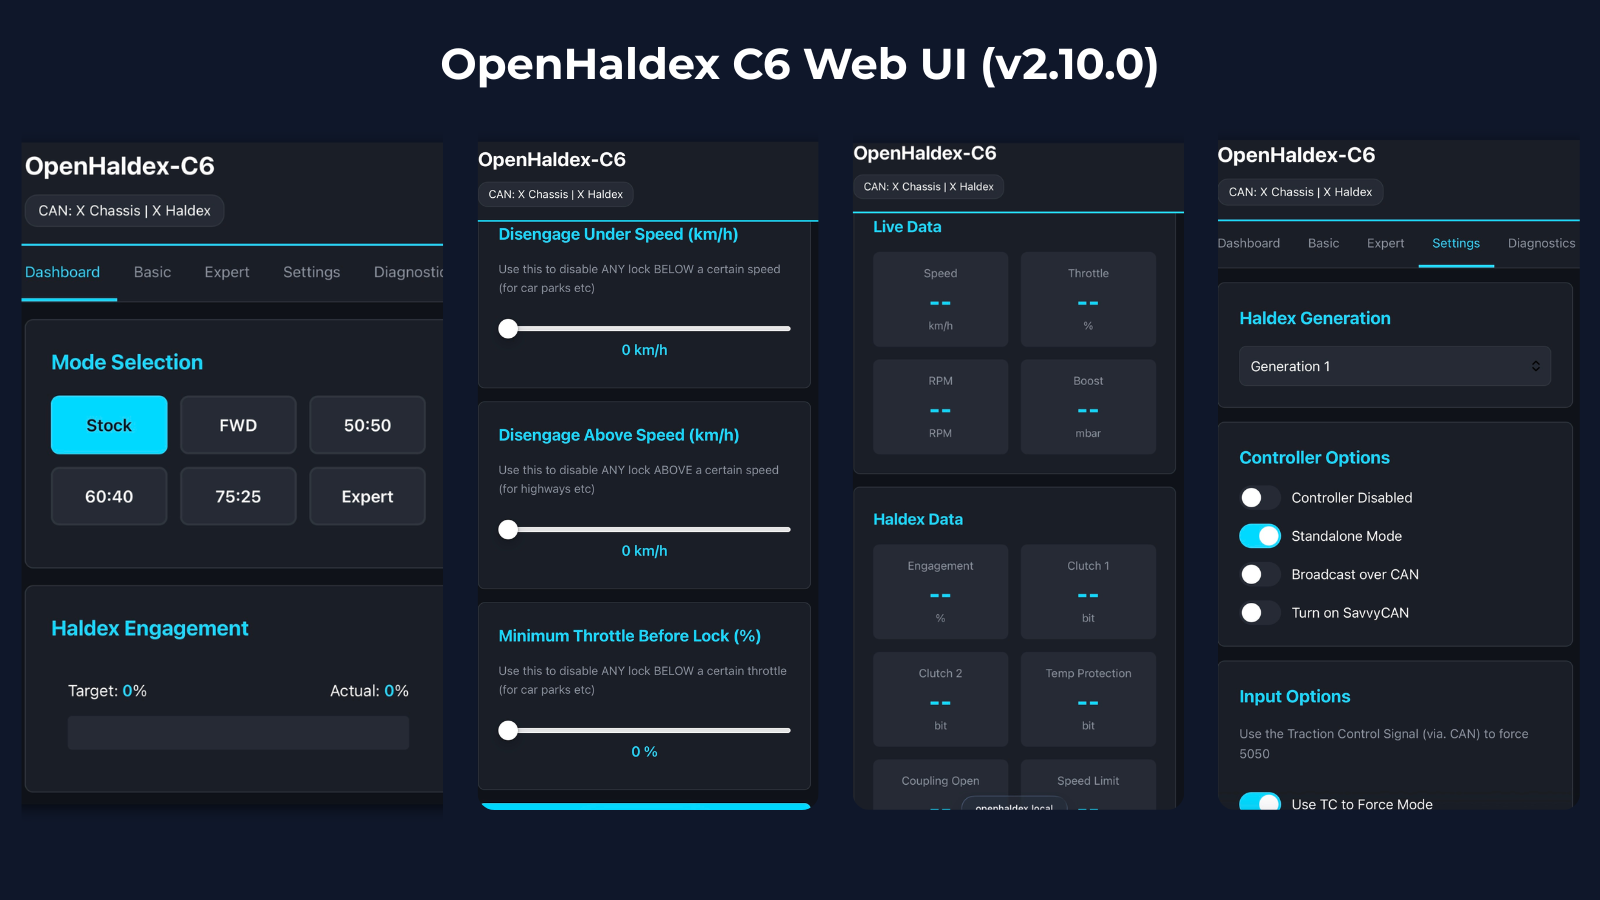
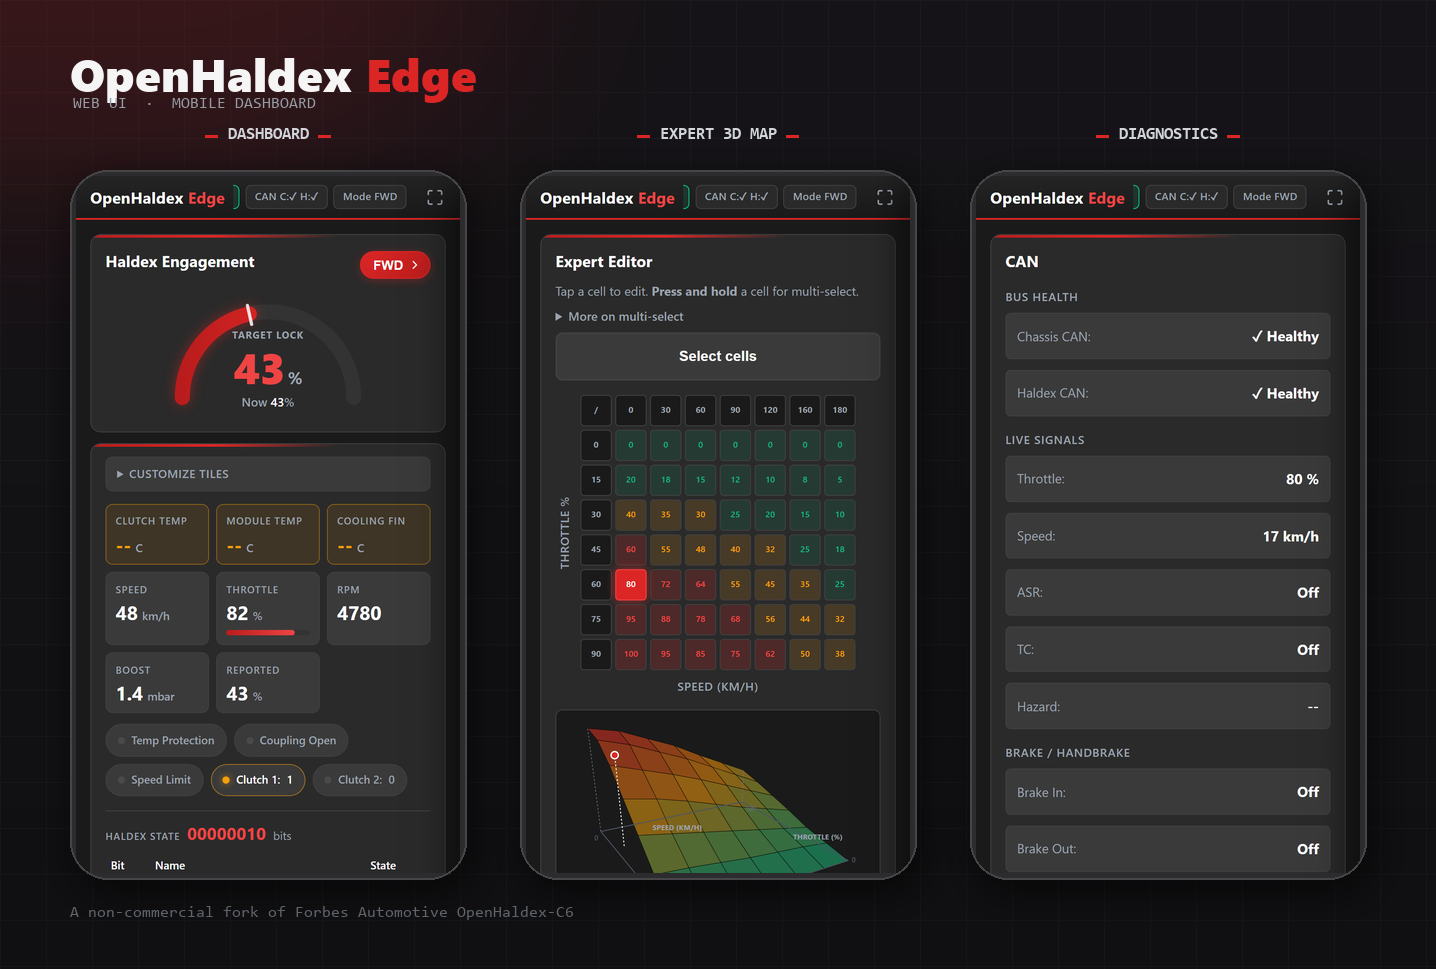
Rebuild web-UI demo imagery and refresh README framing
Replace the three README screenshots, which still showed the upstream
Forbes OpenHaldex-C6 UI, with new composites captured from this fork's
actual reworked web UI (dark Edge theme, red accent):

- Images/openHaldexUI.png: hero grid of all six tabs (Dashboard, Expert
  3D map, Diagnostics, Basic modes, Calibrate, Settings + OTA), each a
  framed phone mockup, with a feature-pill strip and Forbes attribution
  in the footer.
- Images/UIDemo.png: wide 3-up (Dashboard, Expert 3D map, Diagnostics)
  for the WiFi-setup section.
- Images/expertmode.jpg: the Expert grid plus the live 3D lock surface.

Shots were captured from the existing tools/mock_ui_server.py over CDP
at mobile width (430px, 2x) and composited with Pillow.

README: rewrite the lead around the imagery to tell the "taken further,
more usable" story while keeping full credit to Forbes Automotive, add
descriptive alt text and captions to all three images, and sweep the
whole file to ASCII punctuation.

No firmware/source changes.

diff --git a/README.md b/README.md
@@ -33,7 +33,11 @@ OpenHaldex is an open-source **Haldex AWD controller** for Volkswagen and Audi G
 
 The firmware runs on an **ESP32-C6** and reads CAN bus messages from the vehicle, allowing the controller to modify or generate commands so the Haldex differential behaves exactly as you've configured. It can operate using OEM CAN signals or in Standalone mode, which is useful for conversions where no chassis bus is present.
 
-![OpenHaldex-C6](/Images/openHaldexUI.png)
+This fork takes Forbes Automotive's platform further and puts the day-to-day usability first: the whole controller is driven from a phone over WiFi, with a reworked dark web UI, a live engagement gauge and lock-response trace, a 3D expert map, per-car calibration, and browser-based over-the-air updates. Everything below runs on the same hardware Forbes builds.
+
+![OpenHaldex Edge web UI - dashboard, expert 3D map, diagnostics, basic modes, calibrate, settings and OTA](/Images/openHaldexUI.png)
+
+*The OpenHaldex Edge web UI, served straight from the device over its own WiFi access point. No app to install; open a browser on your phone.*
 
 ## Improvements over upstream
 
@@ -145,7 +149,7 @@ Expert mode allows lock targets to be configured based on **speed and throttle s
 
 ![ExpertMode](/Images/expertmode.jpg)
 
-*Expert mode grid configuration interface within the OpenHaldex C6 UI.*
+*Expert mode in the OpenHaldex Edge UI: a colour-coded lock table over speed and throttle, with the live 3D surface below and an operating-point dot that rides it as you drive.*
 
 Below the grid, a read-only curve view plots the same lock surface so the table reads as lines while you tune. Toggle between **lock vs speed** (one line per throttle band) and **lock vs throttle** (one line per speed band); it redraws as you edit and never changes what is sent to the Haldex.
 
@@ -233,8 +237,10 @@ data[7] = pedal_value
 > **First power-up:** on a fresh or factory-reset device, step 2 redirects to `/setup` instead of the main UI. Set a password there (8-63 characters). Once submitted the setup page closes permanently and the main UI loads. See [Setting your password](#setting-your-password-first-connection) below.
 
 <p align="center">
-  <img src="/Images/UIDemo.png" alt="OpenHaldex C6 Web UI" width="900" style="max-width:100%;">
+  <img src="/Images/UIDemo.png" alt="OpenHaldex Edge web UI - dashboard, expert 3D map and diagnostics" width="900" style="max-width:100%;">
 </p>
+
+<p align="center"><em>Dashboard, Expert 3D map and Diagnostics on a phone.</em></p>
 
 ### Setting your password (first connection)
 
@@ -266,7 +272,7 @@ The controller is designed to live on a **permanent +12 V** feed. With Low Power
 | Awake (CAN activity detected or WiFi client connected) | ~50 mA |
 
 > [!WARNING]
-> Estimated, inherited from upstream — **not yet measured on this fork.** These current-draw figures are order-of-magnitude expectations only, pending a bench-meter measurement (see the bench-pending note below).
+> Estimated, inherited from upstream - **not yet measured on this fork.** These current-draw figures are order-of-magnitude expectations only, pending a bench-meter measurement (see the bench-pending note below).
 
 ### Layer 1 - Idle AP shutdown (always active)
 
@@ -278,18 +284,18 @@ Controlled by the **CAN Sleep** toggle in Settings and **on out of the box**. Th
 
 ### Layer 3 - CAN sleep aggressive (opt-in, builds on Layer 2)
 
-Off by default — enable **CAN Sleep (Aggressive)** in Settings to turn it on. The CAN transceiver chips shut down completely, CPU minimum clock drops to 10 MHz, and WiFi AP transmit power is trimmed. Wake is interrupt-driven from a GPIO ISR on each CAN_RX line.
+Off by default - enable **CAN Sleep (Aggressive)** in Settings to turn it on. The CAN transceiver chips shut down completely, CPU minimum clock drops to 10 MHz, and WiFi AP transmit power is trimmed. Wake is interrupt-driven from a GPIO ISR on each CAN_RX line.
 
 ### Setting it up
 
 Low Power Mode works out of the box, but the wake threshold is calibratable because every car idles its CAN bus at a different rate.
 
-The **LP Wake Threshold (fps)** defaults to **1100 fps**. In OEM installs the module stays awake while the **Chassis fps** rate is at or above the threshold and sleeps when it drops below it — so the default keeps the module awake while the vehicle is actively driving the chassis bus (typically well above 1100 fps) and lets it sleep once the bus goes quiet.
+The **LP Wake Threshold (fps)** defaults to **1100 fps**. In OEM installs the module stays awake while the **Chassis fps** rate is at or above the threshold and sleeps when it drops below it - so the default keeps the module awake while the vehicle is actively driving the chassis bus (typically well above 1100 fps) and lets it sleep once the bus goes quiet.
 
 1. Park and lock the car. Wait 30 minutes or until the Chassis bus goes fully quiet.
 2. Stay connected to the OpenHaldex WiFi AP while you check (the controller stays awake while a client is connected).
 3. Open the Web UI and watch the **Chassis fps** and **Haldex fps** counters in Settings.
-4. Set **LP Wake Threshold (fps)** above the parked-bus reading and below the driving-bus reading — the default of 1100 fps suits most installs; lower it only if your car's active chassis-bus rate sits below 1100 fps.
+4. Set **LP Wake Threshold (fps)** above the parked-bus reading and below the driving-bus reading - the default of 1100 fps suits most installs; lower it only if your car's active chassis-bus rate sits below 1100 fps.
 5. **CAN Sleep** is already enabled; optionally enable **CAN Sleep (Aggressive)** in Settings.
 6. Disconnect from the WiFi AP.
 
@@ -300,7 +306,7 @@ The **LP Wake Threshold (fps)** defaults to **1100 fps**. In OEM installs the mo
 > **Switched-ignition installs:** if the module is already powered off with the ignition, Low Power Mode saves little and is optional.
 
 > [!NOTE]
-> **Bench-pending on this fork:** the following hardware-only behaviours are inherited from upstream and have **not yet been measured on real metal** for this fork — the sleeping/awake current draw, the wake latency, transceiver standby in Layer 3, and the exact standalone-threshold value. They are flagged pending a bench-rig measurement increment.
+> **Bench-pending on this fork:** the following hardware-only behaviours are inherited from upstream and have **not yet been measured on real metal** for this fork - the sleeping/awake current draw, the wake latency, transceiver standby in Layer 3, and the exact standalone-threshold value. They are flagged pending a bench-rig measurement increment.
 
 ---
 
